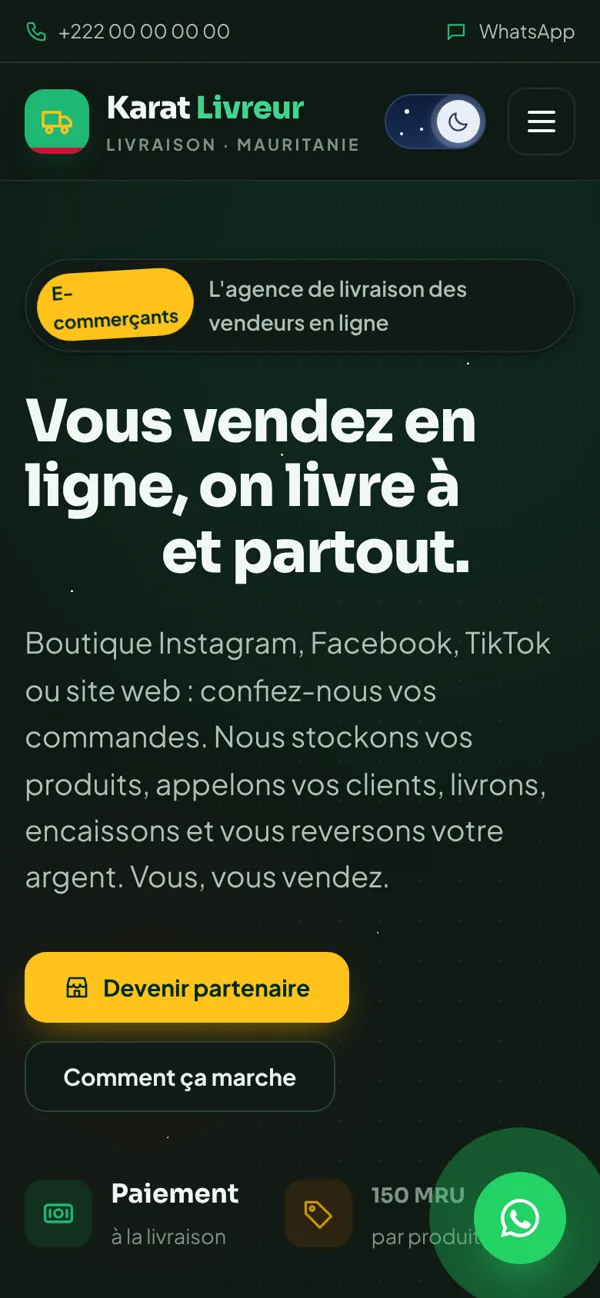
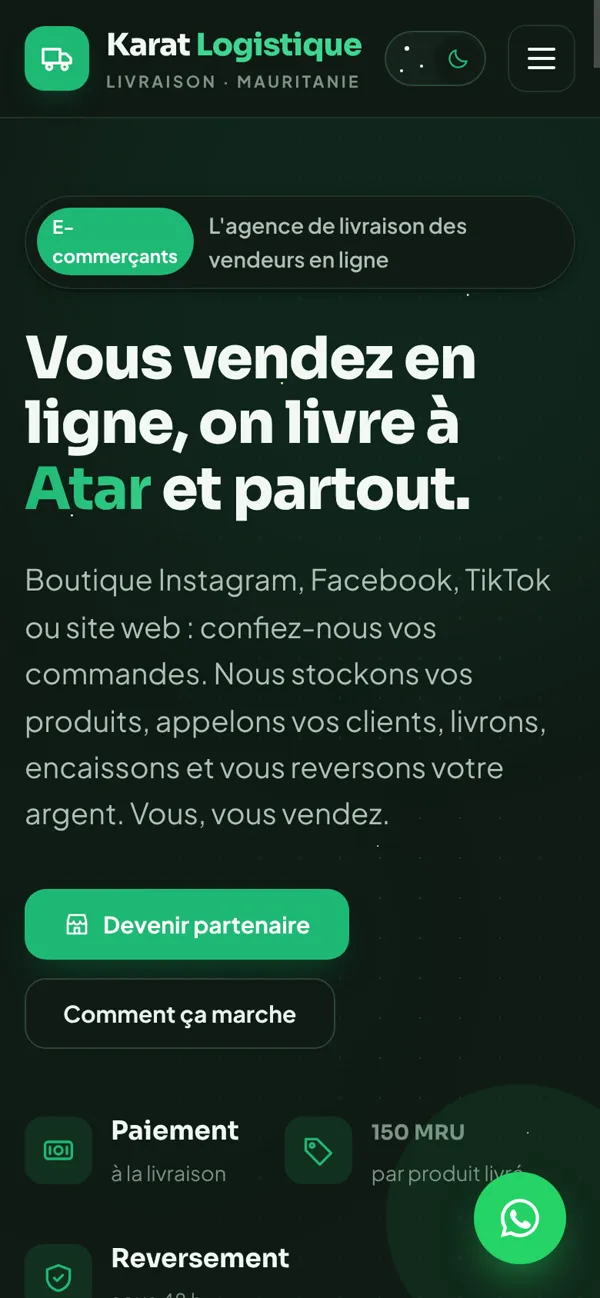
Nouveau nom Karat Logistique sur le site vitrine et les formules
- Site vitrine : section livraison, bandeau de confiance et pied de page
  renommés « Karat Logistique » ; capture du site de livraison mise à jour
  avec le nouveau nom.
- Formule Pro : « Livraison avec Karat Logistique ».

Claude-Session: https://claude.ai/code/session_017N367BcGALRGiNy9Wna1CB

diff --git a/public/index.html b/public/index.html
@@ -80,7 +80,7 @@
           </div>
           <p class="hero-note reveal d3">3 jours gratuits · Sans engagement · Sans carte bancaire</p>
           <ul class="lp-trust reveal d3">
-            <li>💵 Paiement à la livraison</li><li>📱 Bankily · Wave · Orange Money</li><li>🛵 Livraison Karat Livreur</li>
+            <li>💵 Paiement à la livraison</li><li>📱 Bankily · Wave · Orange Money</li><li>🛵 Livraison Karat Logistique</li>
           </ul>
         </div>
         <div class="lp-hero-media reveal d2">
@@ -239,18 +239,18 @@
     <section class="section lp-livreur" id="livreur">
       <div class="container lp-split">
         <div class="lp-split-copy reveal">
-          <span class="eyebrow lp-green">Karat Livreur</span>
+          <span class="eyebrow lp-green">Karat Logistique</span>
           <h2>Et la livraison ? On s'en occupe.</h2>
-          <p>Reliez votre boutique à l'agence Karat Livreur : chaque commande lui est transmise en temps réel, elle livre vos clients et encaisse à la livraison.</p>
+          <p>Reliez votre boutique à l'agence Karat Logistique : chaque commande lui est transmise en temps réel, elle livre vos clients et encaisse à la livraison.</p>
           <ul class="lp-checks">
             <li>Commandes transmises automatiquement à l'agence</li>
             <li>Un code de suivi pour chaque colis, à partager avec le client</li>
             <li>Encaissement à la livraison et reversement de votre argent</li>
             <li>Depuis Nouakchott, vers toute la Mauritanie</li>
           </ul>
-          <a href="/livreur/" class="btn btn-ghost">Découvrir Karat Livreur</a>
+          <a href="/livreur/" class="btn btn-ghost">Découvrir Karat Logistique</a>
         </div>
-        <div class="lp-split-media reveal d1"><div class="lp-phone"><img src="/media/captures/m_livreur.webp" alt="Le site Karat Livreur" loading="lazy" width="600" height="1299" /></div></div>
+        <div class="lp-split-media reveal d1"><div class="lp-phone"><img src="/media/captures/m_livreur.webp" alt="Le site Karat Logistique" loading="lazy" width="600" height="1299" /></div></div>
       </div>
     </section>
 
@@ -337,7 +337,7 @@
             <li><a href="#fonctionnalites">Fonctionnalités</a></li>
             <li><a href="#modeles">Thèmes</a></li>
             <li><a href="#tarifs">Tarifs</a></li>
-            <li><a href="/livreur/">Karat Livreur</a></li>
+            <li><a href="/livreur/">Karat Logistique</a></li>
             <li><a href="/inscription">Créer ma boutique</a></li>
           </ul>
         </div>

diff --git a/src/auth.js b/src/auth.js
@@ -9,7 +9,7 @@ const { config } = require('./config');
 // Clé de signature des sessions commerçant : dérivée du secret robuste de la
 // configuration (variable JWT_SECRET, ou secret privé généré / dérivé de la
 // base — jamais une valeur par défaut connue). Dérivation dédiée pour que le
-// jeton d'un autre espace (Karat Livreur) ne soit jamais accepté ici.
+// jeton d'un autre espace (Karat Logistique) ne soit jamais accepté ici.
 const JWT_SECRET = crypto.createHmac('sha256', config.jwtSecret).update('karat-merchant-session').digest('hex');
 // Session glissante : le commerçant reste connecté tant qu'il utilise
 // l'application (le jeton est renouvelé à l'usage), mais un appareil oublié

diff --git a/src/account.js b/src/account.js
@@ -14,7 +14,7 @@ const PLANS = {
   pro: {
     id: 'pro', name: 'Pro', mru: 1500, fcfa: 9000, maxProducts: 300, maxShops: 3, api: false, popular: true,
     tagline: 'Pour les commerçants qui vendent chaque jour',
-    features: ["Jusqu'à 3 boutiques", "Jusqu'à 300 produits", 'Livraison avec Karat Livreur', 'Marketing : Pixel Meta, catalogue Facebook', 'Finances & statistiques avancées'],
+    features: ["Jusqu'à 3 boutiques", "Jusqu'à 300 produits", 'Livraison avec Karat Logistique', 'Marketing : Pixel Meta, catalogue Facebook', 'Finances & statistiques avancées'],
   },
   business: {
     id: 'business', name: 'Business', mru: 3500, fcfa: 21000, maxProducts: null, maxShops: 10, api: true,
